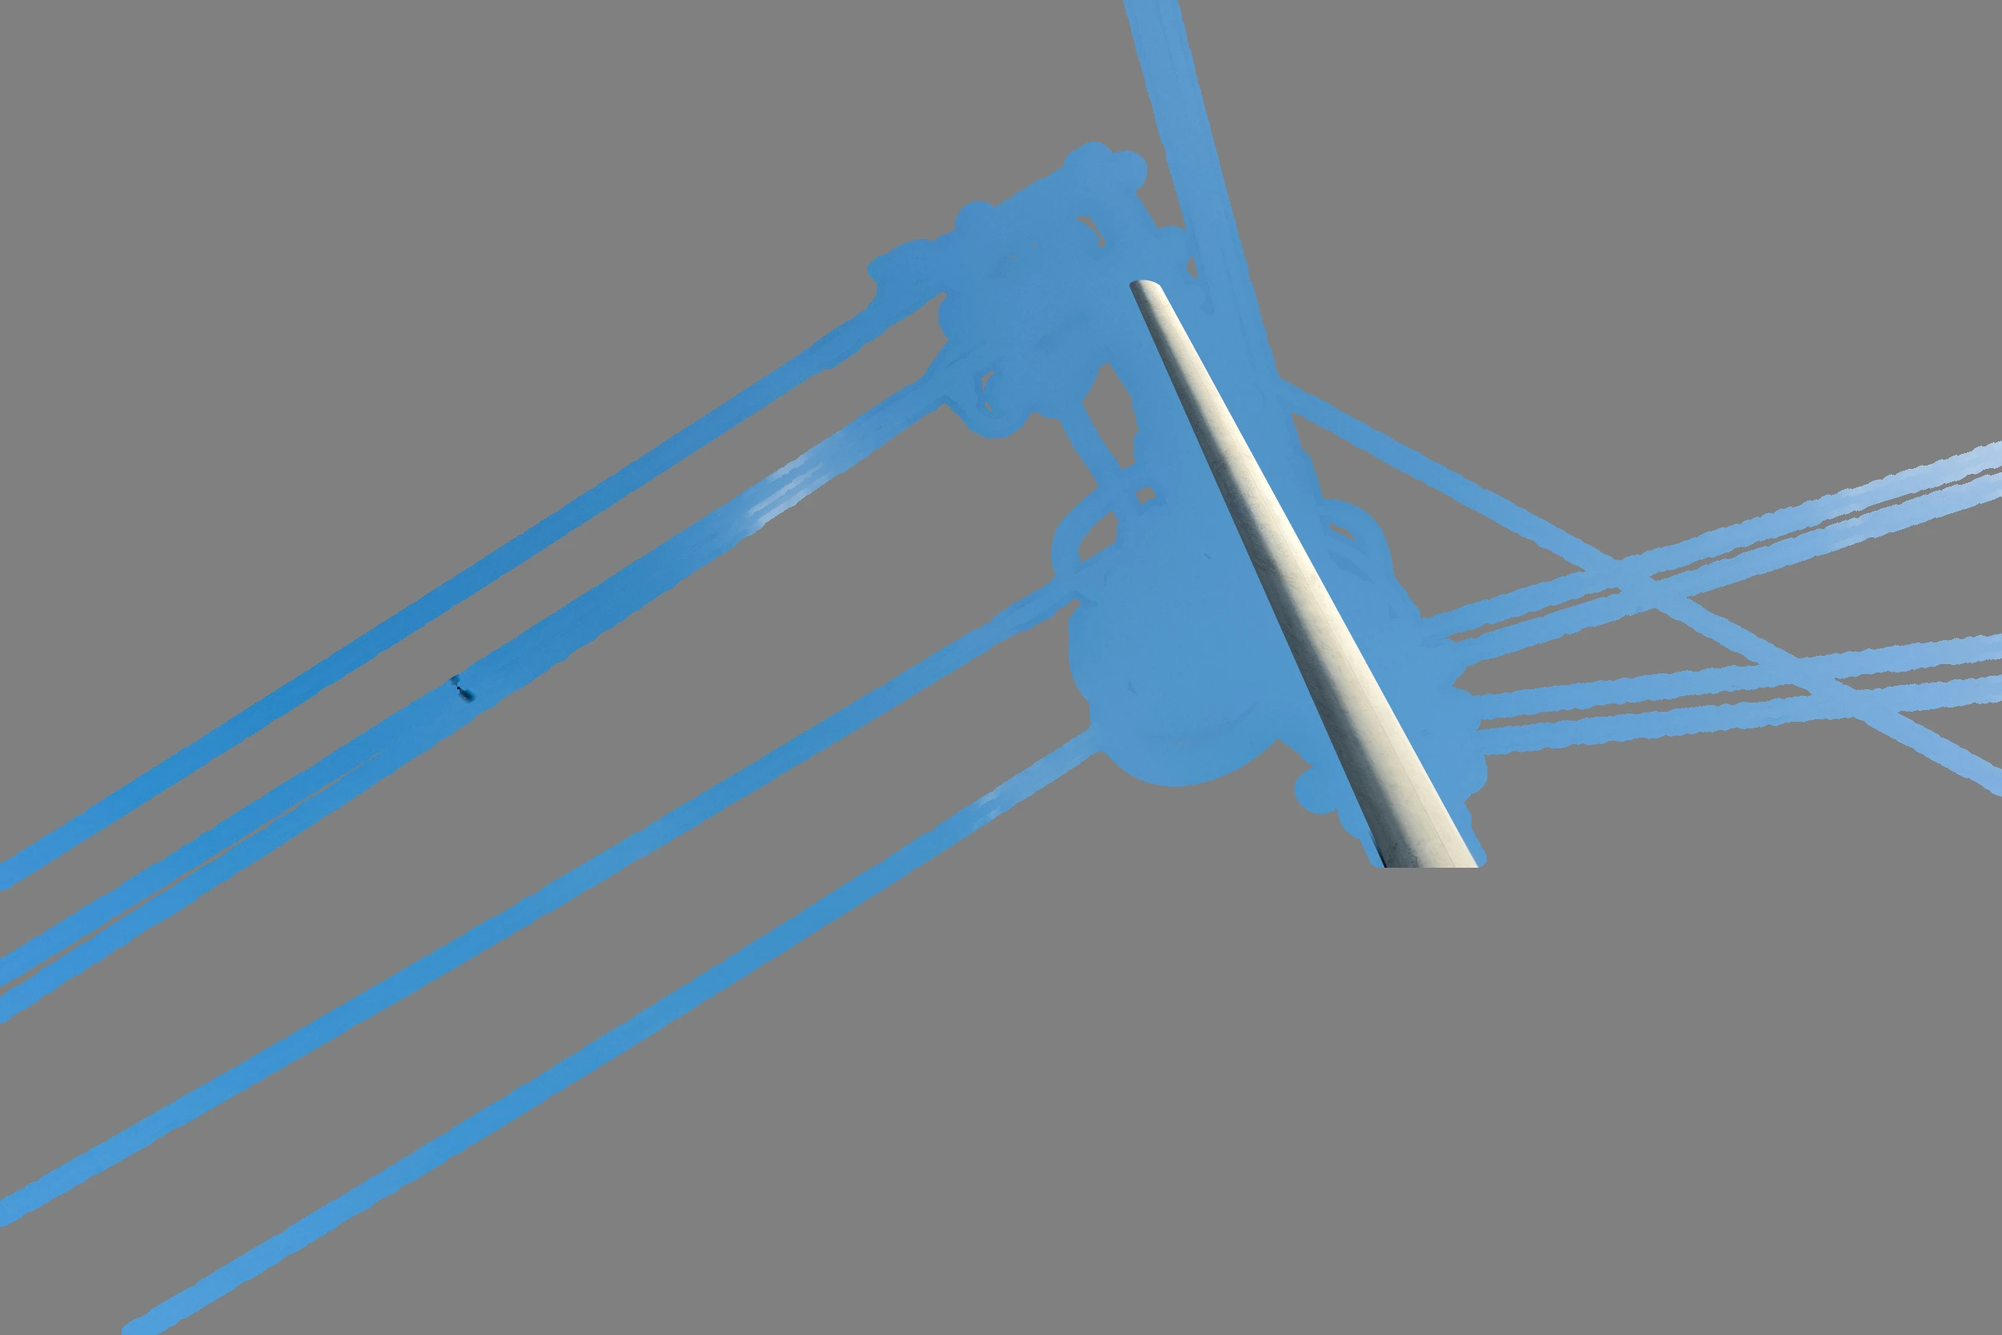
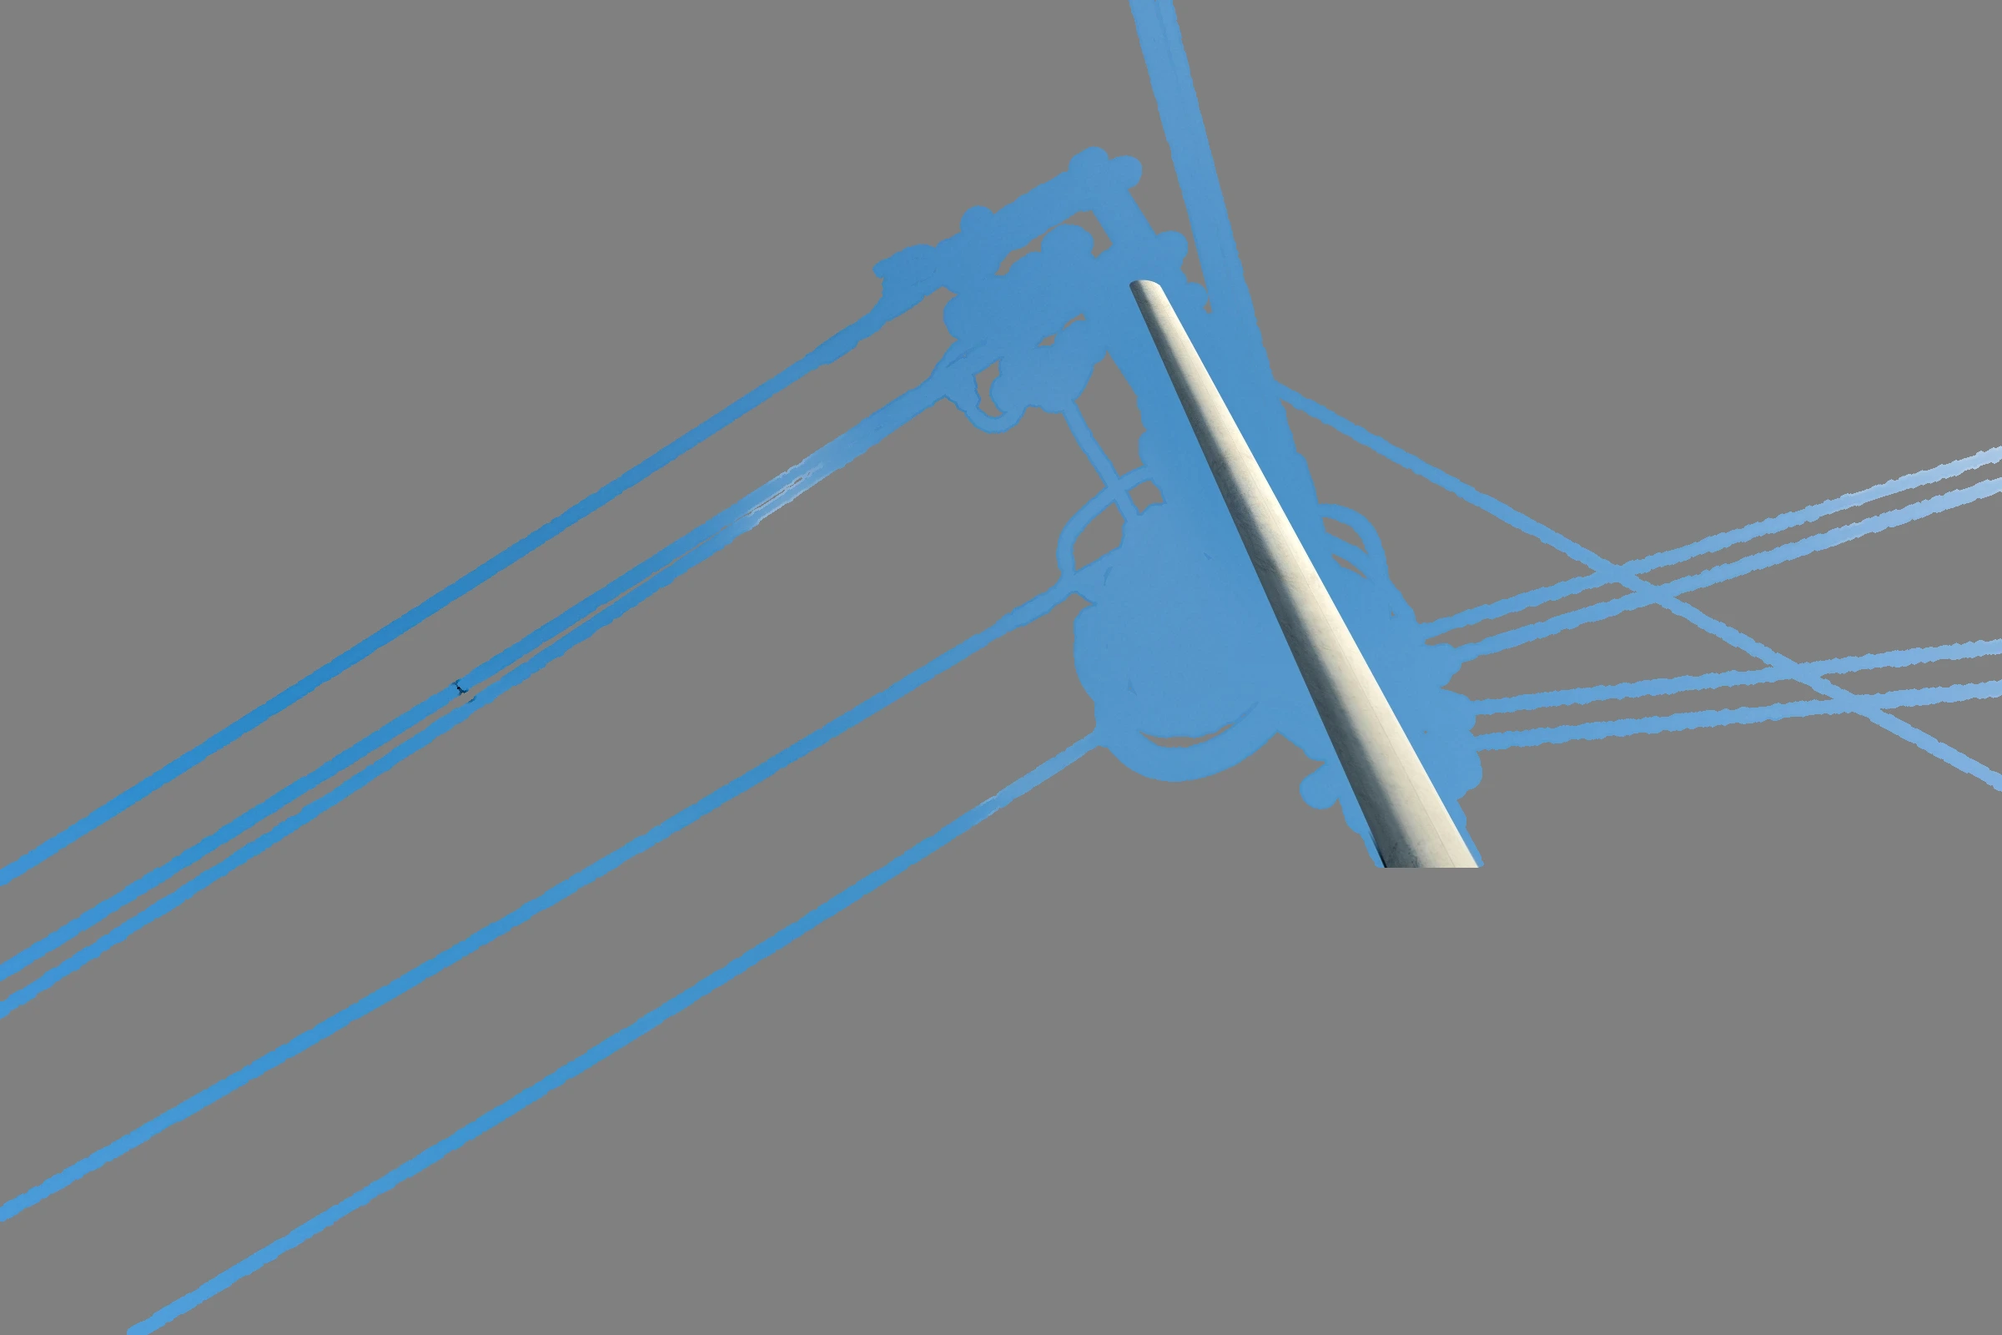
Lab: climb denchuka round 2
Claude-Session: https://claude.ai/code/session_01RqENhngNCzDFmJWDZueXGV

diff --git a/tools/depth/bakes/denchuka/membrane.py b/tools/depth/bakes/denchuka/membrane.py
@@ -1,6 +1,7 @@
 # Denchuka: the membrane (push-pull) fill shared by plates.py.
 import numpy as np, cv2
 import fill  # tools/depth/fill.py (the caller puts tools/depth on the path)
+import kit  # tools/depth/kit.py
 
 
 def push_pull(img, w):
@@ -18,12 +19,127 @@ def push_pull(img, w):
     return C
 
 
-def sky_fill(img, hole, sky, seed=0):
+def clear_sky_fit(img, known, s_fit=80, deg=3, iters=3):
+    """The clear sky's own smooth field, from the known pixels only: a low-order 2D
+    polynomial over the whole frame (it carries the gradient across a big hole) plus
+    the normalized convolution (sigma s_fit) of what it leaves, which pulls the fit
+    onto the sky right round each hole and fades back to the polynomial deep inside
+    one. Pixels that sit off it (a bird, the fringe the plant throws, a wire end
+    the matte missed, the brighter wisps) are dropped and the fit made again, so
+    they cannot darken or lighten it. Returns the fit and the pixels it was made from."""
+    H, W = known.shape
+    ys, xs = np.mgrid[0:H, 0:W].astype(np.float32)
+    u, v = xs / W * 2 - 1, ys / H * 2 - 1
+    terms = [u ** i * v ** j for i in range(deg + 1) for j in range(deg + 1 - i)]
+    A = np.stack([t.ravel() for t in terms], 1)
+    sm = cv2.GaussianBlur(img, (0, 0), 3)
+    ok = known.copy()
+    for it in range(iters + 1):
+        idx = np.flatnonzero(ok.ravel())[::7]
+        coef = np.linalg.lstsq(A[idx], img.reshape(-1, 3)[idx], rcond=None)[0]
+        poly = (A @ coef).reshape(H, W, 3).astype(np.float32)
+        w = ok.astype(np.float32)
+        num = kit.blur((img - poly) * w[..., None], s_fit)
+        den = kit.blur(w, s_fit)
+        fit = poly + num / (den + 2e-3)[..., None]
+        if it == iters:
+            break
+        # a dark outlier is the plant's (fringe, wire end, bird) and goes at 2.5/255;
+        # the wisps are the sky's own and go only where they stand well clear of it
+        dy = kit.luma(sm - fit)
+        off = (dy < -(6 if it == 0 else 2.5) / 255) | (dy > 10 / 255) | (np.abs(sm - fit).max(2) > 12 / 255)
+        ok = known & ~kit.dilate(off, 6)
+    return fit, ok
+
+
+def enclosed(hole, max_area=40000):
+    """The islands of sky a hole closes round (between the crossarms, the
+    transformers and the wires at the pole head): the not-hole components that
+    touch no frame edge, up to max_area px. The plant darkens the sky it closes
+    round (flare, its out-of-focus far side), so once it has gone they read as
+    dark blotches in the open sky: they go into the hole."""
+    n, lab, st, _ = cv2.connectedComponentsWithStats((~hole).astype(np.uint8), connectivity=4)
+    H, W = hole.shape
+    x, y, w, h, a = st[:, 0], st[:, 1], st[:, 2], st[:, 3], st[:, 4]
+    keep = (x > 0) & (y > 0) & (x + w < W) & (y + h < H) & (a <= max_area)
+    keep[0] = False
+    return keep[lab]
+
+
+def fringe(img, hole, sky, reach=60, thr=1.5, s_fit=80):
+    """The darkened sky round the thick of a hole: the flare and the out-of-focus
+    edge the pole head throws onto the sky past its matte, which, left behind,
+    read as dark bays along the hole once the head has gone. The clear-sky pixels
+    within `reach` px of the hole's thick part (not a wire's channel) whose 4 px
+    blur sits more than thr/255 under the clear-sky fit, and that join the hole,
+    grown 6 px."""
+    fit, _ = clear_sky_fit(img, sky & ~hole, s_fit)
+    d = cv2.distanceTransform(hole.astype(np.uint8), cv2.DIST_L2, 5)
+    thick = hole & (cv2.dilate(d, kit.disk(40)) > 50)
+    dark = (kit.luma(cv2.GaussianBlur(img, (0, 0), 4) - fit) < -thr / 255) & sky & ~hole & kit.dilate(thick, reach)
+    n, lab = cv2.connectedComponents((dark | hole).astype(np.uint8), connectivity=8)
+    joined = np.zeros(n, bool)
+    joined[np.unique(lab[hole])] = True
+    joined[0] = False
+    return kit.dilate(dark & joined[lab], 6) & ~hole
+
+
+def refit_low(out, img, hole, sky, seed=0, s_fit=80, s_lp=16, feather=24, inset=0):
+    """Rebuild a filled hole's low frequencies from the clear sky round it.
+
+    A membrane, or any fill, carries whatever is wrong near the hole into it at
+    low frequency: the dark fringe round the plant, a missed wire end, the pull of
+    a wisp at one side; after the pole head goes these read as darker, mottled
+    blotches in the open sky. Here the hole's low-pass (sigma s_lp) is replaced by
+    the clear-sky fit (clear_sky_fit) and only the fill's high-pass is kept on top:
+    the grain, with any speck in it (a dot of the plant the fill reproduced) taken
+    out and grained over. It eases in over `feather` px inside the hole's edge,
+    where the fill already meets the sky it was drawn from (from `inset` px in: a
+    hole grown past what it covered starts that far in), and only where the hole
+    is thick: a thin one, a wire's, keeps its membrane.
+    out: the filled image; img: the image the clear sky is read from; hole: the
+    pixels to rebuild; sky: where img is clear sky. Returns the image, the specks
+    and how far the fit stands in for the fill (0..1)."""
+    fit, ok = clear_sky_fit(img, sky & ~hole, s_fit)
+    lp = cv2.GaussianBlur(out, (0, 0), s_lp)
+    hp = out - lp
+    # the grain's own level and the specks that stand out of it, on a 2 px scale
+    hp2 = kit.luma(cv2.GaussianBlur(hp, (0, 0), 2))
+    ring = ok & kit.dilate(hole, 48)
+    ref = img - cv2.GaussianBlur(img, (0, 0), s_lp)
+    sig2 = 1.4826 * np.median(np.abs(kit.luma(cv2.GaussianBlur(ref, (0, 0), 2))[ring]))
+    sig = 1.4826 * np.median(np.abs(kit.luma(ref)[ring]))
+    speck = hole & kit.dilate(np.abs(hp2) > 4 * sig2 + 0.5 / 255, 3)
+    rng = np.random.default_rng(seed + 101)
+    noise = cv2.GaussianBlur(rng.standard_normal(hole.shape).astype(np.float32), (0, 0), 0.6)
+    noise *= sig / (noise.std() + 1e-6)
+    sp = cv2.GaussianBlur(speck.astype(np.float32), (0, 0), 1.5)[..., None]
+    hp = hp * (1 - sp) + noise[..., None] * sp
+    # only where the hole is thick: across a thin one (a wire's channel, even
+    # several side by side) the membrane spans a few dozen px and is right, and
+    # it carries a wisp the wire crossed over the gap, which the fit cannot
+    d = cv2.distanceTransform(hole.astype(np.uint8), cv2.DIST_L2, 5)
+    thick = kit.smoothstep(inset + 18, inset + 48, cv2.dilate(d, kit.disk(40)))
+    w = (kit.smoothstep(inset, inset + feather, d) * thick)[..., None]
+    # a Gaussian high-pass leaks the band just under its cutoff (a blotch of the
+    # fill at 20-30 px would come back at a fifth of its depth): on the fit it is
+    # taken twice
+    hp2 = hp - cv2.GaussianBlur(hp, (0, 0), s_lp)
+    res = np.where(hole[..., None], (lp + hp) * (1 - w) + (fit + hp2) * w, out)
+    return res, speck, w[..., 0] * hole
+
+
+def sky_fill(img, hole, sky, seed=0, refit=False):
     """The hole filled with a membrane of the clear sky round it (sky: the pixels that
     are clear sky, nothing in front of them), and the photo's grain. Against an open
     sky this beats LaMa, which, given the tangle at a pole head, draws dark junk
-    shaped like crossarms back into the hole."""
+    shaped like crossarms back into the hole. refit: the hole's low frequencies
+    rebuilt from the clear sky (refit_low), so a big hole disappears once whatever
+    stood in it has gone."""
     known = sky & ~hole
     mem = push_pull(img, known.astype(np.float32))
     a = hole.astype(np.float32)[..., None]
-    return fill.match_grain(img * (1 - a) + mem * a, img, hole, seed=seed)
+    out = img * (1 - a) + mem * a
+    if refit:
+        out = refit_low(out, img, hole, sky, seed=seed)[0]
+    return fill.match_grain(out, img, hole, seed=seed)

diff --git a/tools/depth/bakes/denchuka/refit.py b/tools/depth/bakes/denchuka/refit.py
@@ -1,0 +1,91 @@
+# Denchuka, step 4b: rebuild the low-frequency sky of the shipped clean plates.
+#
+#   python3 -I refit.py <public/lab/denchuka>
+#
+# plates.py now does this itself (sky_fill(..., refit=True) for p3, which p2's
+# sky is cut from), so a fresh bake needs no step 4b. This is the same pass,
+# membrane.refit_low, run on the exported plates when the working directory the
+# bake ran in is gone: the clear sky is read from p0 outside every plate region
+# (ids.png B = 0), the hole is p3's region with the islands of sky it closes
+# round (membrane.enclosed) and the darkened sky round the pole head
+# (membrane.fringe), which join R3 in ids.png with the id of whatever stands
+# nearest them (as export.py gives every pixel of p3's region no element owns),
+# and p2 takes the same change wherever it shows sky:
+#
+#   p3' = refit_low(p3)                       over R3
+#   p2' = p2 + (p3' - p3)                     where p2 is p3's sky (the same pixels)
+#   p2' = p2 + (1 - shaft alpha) x lowpass(p3' - p3)   elsewhere in R2
+#
+# so p2 and p3 still agree outside the rebuilt shaft, and the pole's unmix
+# (photo = a x shaft + (1 - a) x sky, plate 2 against plate 3) is unchanged.
+# p1 is not touched: it shows only under the standing hardware, where the sky
+# is the photograph's own.
+import os, sys
+import numpy as np, cv2
+
+HERE = os.path.dirname(os.path.abspath(__file__))
+sys.path.insert(0, os.path.abspath(os.path.join(HERE, "..", "..")))
+import kit  # noqa: E402
+sys.path.insert(0, HERE)
+from membrane import refit_low, clear_sky_fit, enclosed, fringe  # noqa: E402
+
+out = sys.argv[1].rstrip("/") + "/"
+rd = lambda f: cv2.imread(out + f, cv2.IMREAD_UNCHANGED)  # noqa: E731
+rgb = lambda f: rd(f)[:, :, ::-1].astype(np.float32) / 255  # noqa: E731
+p0, p2, p3 = rgb("p0.webp"), rgb("p2.webp"), rgb("p3.webp")
+ids = rd("ids.png")[:, :, ::-1].copy()
+rk = ids[..., 2] // 64
+sa = rd("alpha.png")[:, :, 0].astype(np.float32) / 255  # B: the shaft
+isl = enclosed(rk > 0)
+# and the darkened sky round the pole head's hole (membrane.fringe)
+isl |= fringe(p0, (rk > 0) | isl, ~((rk > 0) | isl))
+# Every pixel of p3's region that no element owns (these, and the rim of sky
+# plates.py takes round the plant) showed p3 from the first year: with the sky
+# under it rebuilt, a lighter rim round the standing plant. Each goes with
+# whatever stands nearest it, a wire (R), a hardware piece or the pole (G: hid *
+# 16 + shaft id), so the photograph shows there until that has gone (export.py
+# does the same); R3 (B = 3 x 64), so plates 1 and 2 are the photograph there.
+# A wire's id on a pixel with no matte changes nothing but which plate shows:
+# its line comes from elements.json (fit), not from these pixels.
+hid, sid = ids[..., 1].astype(np.int32) // 16, ids[..., 1].astype(np.int32) % 16
+lab = np.where(ids[..., 0] > 0, ids[..., 0].astype(np.int32), np.where(hid > 0, 1000 + hid * 16, np.where(sid > 0, 1001, 0))).astype(np.int32)
+known = lab > 0
+free = (rk > 0) & ~known | isl
+_, near = cv2.distanceTransformWithLabels((~known).astype(np.uint8), cv2.DIST_L2, 5, labelType=cv2.DIST_LABEL_PIXEL)
+lut = np.zeros(near.max() + 1, np.int32)
+lut[near[known]] = lab[known]
+g = lut[near[free]]
+ids[free, 0] = np.where(g < 1000, g, 0)
+ids[free, 1] = np.where(g >= 1000, g - 1000, 0)
+ids[free, 2] = 3 * 64
+rk = ids[..., 2] // 64
+R3, R2 = rk > 0, (rk > 0) & (rk <= 2)
+print(f"islands and fringe: {isl.sum()} px; {free.sum()} px of p3 given to the nearest element")
+
+sky = np.where(R3[..., None] & ~isl[..., None], p3, p0)
+new, speck, wfit = refit_low(sky, sky, R3, ~R3, seed=3, inset=6)
+D = np.where(R3[..., None], new - sky, 0)
+print(f"p3: {speck.sum()} px of specks grained over, |change| p99 {np.percentile(np.abs(D[R3]), 99) * 255:.2f}/255")
+
+same = cv2.GaussianBlur(np.abs(p2 - p3).max(2), (0, 0), 1.5)
+m = (kit.smoothstep(4 / 255, 2 / 255, same) * (1 - sa))[..., None]
+Dlp = cv2.GaussianBlur(D, (0, 0), 4)
+P2 = np.where(R2[..., None], p2 + m * D + (1 - m) * (1 - sa[..., None]) * Dlp, p2)
+P3 = np.where(R3[..., None], new, p3)
+
+# the check: the hole's 24 px low-pass against the clear-sky fit, where the fit
+# stands in for the fill (the thick of the hole: the pole head, the shaft)
+fit, _ = clear_sky_fit(np.where(R3[..., None], P3, p0), ~R3)
+inner = wfit > 0.5
+dev = (kit.luma(cv2.GaussianBlur(np.where(R3[..., None], P3, p0), (0, 0), 24)) - kit.luma(fit)) * 255
+print(f"hole low-pass vs clear-sky fit ({inner.sum()} px): |dev| p95 {np.percentile(np.abs(dev[inner]), 95):.2f}/255, p99 {np.percentile(np.abs(dev[inner]), 99):.2f}/255, max {np.abs(dev[inner]).max():.2f}/255")
+
+grey = np.array([0.5, 0.5, 0.5], np.float32)
+def webp(name, P, R):
+    band = kit.dilate(R, 3)[..., None]
+    img = np.where(R[..., None], P, np.where(band, p0, grey))
+    cv2.imwrite(out + name, (np.clip(img, 0, 1)[:, :, ::-1] * 255 + 0.5).astype(np.uint8), [cv2.IMWRITE_WEBP_QUALITY, 92])
+    print(name, os.path.getsize(out + name) // 1024, "KB")
+webp("p2.webp", P2, R2)
+webp("p3.webp", P3, R3)
+cv2.imwrite(out + "ids.png", ids[:, :, ::-1], [cv2.IMWRITE_PNG_COMPRESSION, 9])

diff --git a/tools/depth/bakes/denchuka/export.py b/tools/depth/bakes/denchuka/export.py
@@ -31,7 +31,7 @@
 # the frame on the pole's axis; everything that falls, falls away from it (the
 # verticals converge there), so a wire's drop is along the converging verticals
 # where it hangs, not straight down the frame.
-import sys, json, numpy as np, cv2
+import os, sys, json, numpy as np, cv2
 
 wd = sys.argv[1].rstrip("/") + "/"
 out = sys.argv[2].rstrip("/") + "/"
@@ -96,9 +96,6 @@ acc = np.zeros((H, W), bool)
 for k in (1, 2, 3):
     acc = acc | grow(holes[k], 6)
     R.append(acc.copy())
-rk = np.zeros((H, W), np.uint8)
-for k in (3, 2, 1):
-    rk[R[k]] = k
 
 # ---------------------------------------------------------------- ids, over their holes
 wire_id = M["wire_id"].astype(np.int32)
@@ -111,17 +108,33 @@ tail = grow(lead, 3) & ~((M["wire_id"] > 0) & ~lead)
 hid = grow_labels(M["hw_id"].astype(np.int32), None, within=holes[2])
 shaft_any = M["shaft"] | (SA > 0)
 sid = (grow(shaft_any, 4) & holes[3]).astype(np.int32)
+# a pixel of p3's region that no element owns (the rim of sky plates.py takes
+# round the plant, the islands it closes round and the sky it darkens) would
+# show p3 from the first year: a clean rim round the standing plant. It goes
+# with whatever stands nearest it, a wire, a hardware piece or the pole, so the
+# photograph shows there until that has gone (R3 below; a wire's id on a pixel
+# with no matte only picks the plate: its line is `fit` in elements.json)
+wid0, hid0, sid0 = wid, hid, sid  # the elements' own pixels: their mattes, the table
+free = holes[3] & (wid == 0) & (hid == 0) & (sid == 0)
+near = grow_labels(np.where(wid > 0, wid, np.where(hid > 0, 1000 + hid, np.where(sid > 0, 2000, 0))).astype(np.int32), None, within=free)
+wid = np.where(free & (near < 1000), near, wid)
+hid = np.where(free & (near >= 1000) & (near < 2000), near - 1000, hid)
+sid = np.where(free & (near == 2000), 1, sid)
+
+rk = np.zeros((H, W), np.uint8)
+for k in (3, 2, 1):
+    rk[R[k]] = k
+rk[free] = 3
 
 # ---------------------------------------------------------------- alphas
 o = M["o"]
-wa = np.where(wid > 0, M["wire_alpha"], 0)
-ha = np.where(hid > 0, M["hw_alpha"], 0)
+wa = np.where(wid0 > 0, M["wire_alpha"], 0)
+ha = np.where(hid0 > 0, M["hw_alpha"], 0)
 JOIN = info["hw_bottom_row"] + 6
 sa = np.where(ys < JOIN, SA, np.maximum(SA, np.where(M["shaft"], o, 0)))
-sa = np.where(sid > 0, sa, 0)
+sa = np.where(sid0 > 0, sa, 0)
 
 # ---------------------------------------------------------------- write images
-import os
 os.makedirs(out, exist_ok=True)
 def webp(path, rgb, q):
     cv2.imwrite(path, (np.clip(rgb, 0, 1)[:, :, ::-1] * 255 + 0.5).astype(np.uint8), [cv2.IMWRITE_WEBP_QUALITY, q])
@@ -143,8 +156,8 @@ cv2.imwrite(out + "alpha.png", (np.clip(al, 0, 1)[:, :, ::-1] * 255 + 0.5).astyp
 # ---------------------------------------------------------------- the element table and its years
 k, c = pole["k"], pole["c"]
 hardware = []
-for g in sorted(set(np.unique(hid)) - {0}):
-    m = (hid == g) & (ha > 0.04)
+for g in sorted(set(np.unique(hid0)) - {0}):
+    m = (hid0 == g) & (ha > 0.04)
     hy, hx = ys[m], xs[m]
     reach = float(np.abs(hx - (k * hy + c)).max())
     hardware.append(dict(id=int(g), k=round(k, 5), c=round(c, 2), top=int(hy.min()), bottom=int(hy.max()), base=H - 1,
@@ -154,7 +167,7 @@ poles = [dict(id=1, k=round(k, 5), c=round(c, 2), top=int(pole["top"]), base=H -
 k_, c_ = pole["k"], pole["c"]
 wires = []
 for w in info["wires"]:
-    m = wid == w["id"]
+    m = wid0 == w["id"]
     if not m.any():
         continue
     wx, wy = xs[m], ys[m]

diff --git a/tools/depth/bakes/denchuka/plates.py b/tools/depth/bakes/denchuka/plates.py
@@ -39,7 +39,7 @@ sys.path.insert(0, os.path.abspath(os.path.join(HERE, "..", "..")))
 import fill  # noqa: E402,F401  tools/depth/fill.py
 import kit  # noqa: E402
 sys.path.insert(0, HERE)
-from membrane import sky_fill  # noqa: E402
+from membrane import sky_fill, enclosed, fringe  # noqa: E402
 
 wd = sys.argv[1].rstrip("/") + "/"
 M = np.load(wd + "masks.npz")
@@ -150,7 +150,18 @@ P3 = sky_fill(P1, hole3, sky, seed=3)
 Yd = (cv2.GaussianBlur(P3, (0, 0), 2) - cv2.GaussianBlur(P1, (0, 0), 2)).mean(2)
 faint = near_pole & (Yd > 0.006) & ~hole3
 hole3 |= kit.dilate(faint, 6)
-P3 = sky_fill(P1, hole3, sky & ~kit.dilate(faint, 8), seed=3)
+# the islands of sky the hole closes round at the pole head (between crossarms,
+# transformers and wires: the plant darkens them) and the darkened sky round its
+# thick part (flare, the out-of-focus edge: membrane.fringe) go too (export.py
+# gives them, as every pixel of hole3 no element owns, the id of whatever stands
+# nearest, so the photograph shows there until it has gone); and the hole's low
+# frequencies are rebuilt from the clear sky (membrane.refit_low): the membrane
+# alone leaves darker blotches where the crossarms and transformers stood
+isl = kit.dilate(enclosed(kit.dilate(hole3, 6)), 6) & ~hole3
+isl |= fringe(P1, hole3 | isl, sky & ~kit.dilate(faint, 8) & ~isl)
+hole3 |= isl
+P3 = sky_fill(P1, hole3, sky & ~kit.dilate(faint, 8) & ~isl, seed=3, refit=True)
+print(f"p3: {isl.sum()} px of enclosed and darkened sky added")
 print(f"p3: {faint.sum()} px of faint plant added")
 print(f"p3: hole {hole3.mean() * 100:.2f}%, {time.time() - t0:.0f}s")
 
